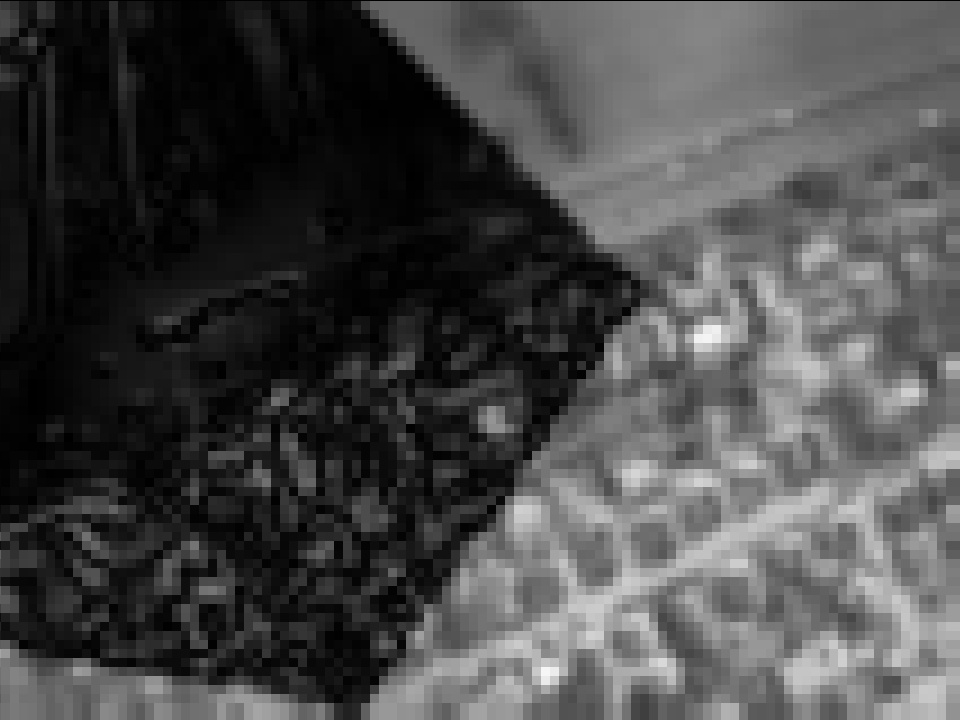
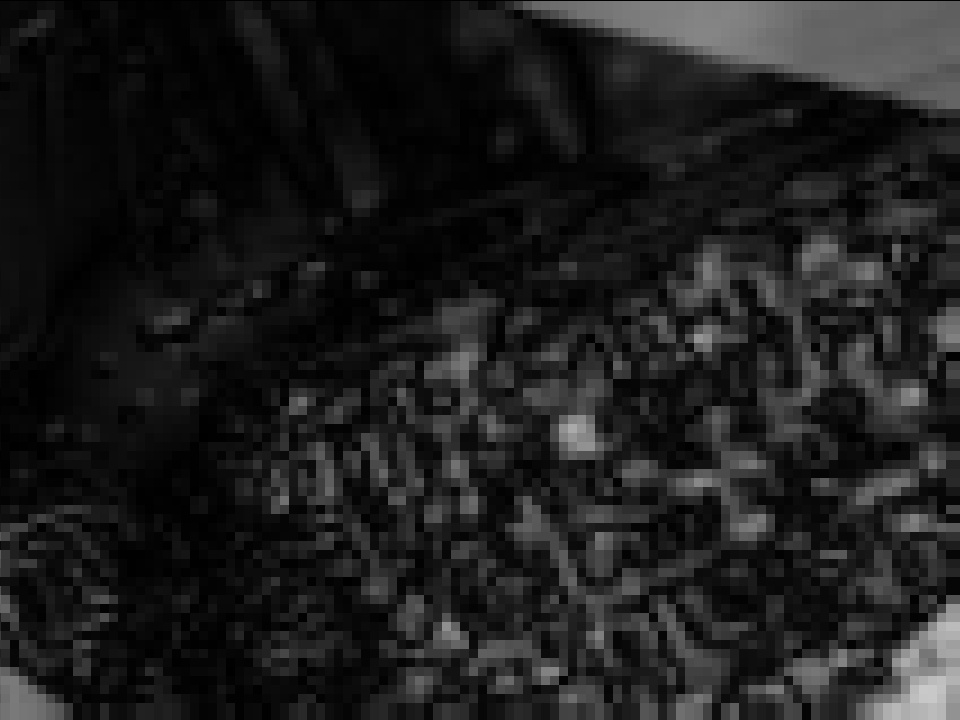
15-points-RANSAC-homography

diff --git a/script/homography_RANSAC.py b/script/homography_RANSAC.py
@@ -1,0 +1,38 @@
+import cv2 as cv
+import numpy as np
+
+
+if __name__ == '__main__':
+    '''center at cross'''
+    # pick_point_1 = np.float32([[762, 673], [752, 683], [738, 697],
+    #                            [732, 703], [810, 696], [797, 709],
+    #                            [804, 713], [746, 741], [748, 747],
+    #                            [752, 754], [753, 767], [793, 748],
+    #                            [787, 754], [778, 763], [772, 768]])
+    # pick_point_2 = np.float32([[708, 169], [703, 183], [696, 203],
+    #                            [693, 211], [762, 172], [756, 188],
+    #                            [764, 190], [721, 241], [726, 246],
+    #                            [733, 251], [739, 263], [769, 228],
+    #                            [766, 235], [761, 248], [758, 256]])
+    pick_point_1 = np.float32([[673, 762], [683, 752], [697, 738],
+                               [703, 732], [696, 810], [709, 797],
+                               [713, 804], [741, 746], [747, 748],
+                               [754, 752], [767, 753], [748, 793],
+                               [754, 787], [763, 778], [768, 772]])
+    pick_point_2 = np.float32([[169, 708], [183, 703], [203, 696],
+                               [211, 693], [172, 762], [188, 756],
+                               [190, 764], [241, 721], [246, 726],
+                               [251, 733], [263, 739], [228, 769],
+                               [235, 766], [248, 761], [256, 758]])
+    homo_mask = cv.findHomography(pick_point_1, pick_point_2, cv.RANSAC)
+    # print(homo_mask)
+
+    pic = cv.imread('../pic/cross_1.jpg')
+    size = pic.shape
+    size_trans = (size[1], size[0])
+    homo_matrix = np.mat(homo_mask[0])
+    pic_warp = cv.warpPerspective(pic, homo_matrix, size_trans)
+
+    cv.imwrite('../pic/image/RANSAC_warped/cross_1.jpg', pic_warp)
+    cv.imshow('result', pic_warp)
+    cv.waitKey(0)

diff --git a/script/difference-pic.py b/script/difference-pic.py
@@ -39,7 +39,7 @@ def rgb_dis(img_1, img_2, u, v, center_boundary_dist):
 
 if __name__ == '__main__':
     pic_base = cv.imread('../pic/cross_2.jpg')
-    pic_warp = cv.imread('../pic/image/no-point/result_9to10_center_at_cross.jpg')
+    pic_warp = cv.imread('../pic/image/RANSAC_warped/cross_1.jpg')
     pic_base_pyr = []
     pic_warp_pyr = []
     pic_diff_pyr = []
